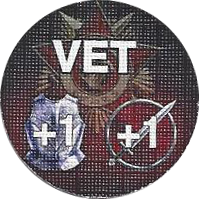
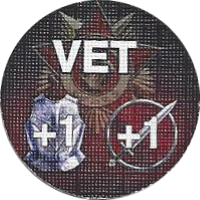
#117- Added Melee +1 Marker
- all FvW markers resized to 200x200
- lint and nits cleaned up in the FvW set.xml

diff --git a/GameDatabase/9acef3d0-efa8-4d3f-a10c-54812baecdda/Documents/MW-KeyMap.html b/GameDatabase/9acef3d0-efa8-4d3f-a10c-54812baecdda/Documents/MW-KeyMap.html
@@ -45,10 +45,11 @@
 			<tr><td>Add Burn Marker="Ctrl+B"</td><td>Remove Burn Marker="Ctrl+Shift+B"</td></tr>
 			<tr><td>Add Bleed Marker="Alt+B"</td><td>Remove Bleed Marker="Ctrl+Alt+B"</td></tr>
 			<tr><td>Add Corrode Marker="Ctrl+C"</td><td>Remove Corrode Marker="Ctrl+Shift+C"</td></tr>
-			<tr><td>Add Cripple Marker="Ctrl+C"</td><td>Remove Cripple Marker="Ctrl+Alt+C"</td></tr>
+			<tr><td>Add Cripple Marker="Alt+C"</td><td>Remove Cripple Marker="Ctrl+Alt+C"</td></tr>
 			<tr><td>Add Daze Marker="Ctrl+D"</td><td>Remove Daze Marker="Ctrl+Shift+D"</td></tr>
 			<tr><td>Add Disable Marker="Alt+D"</td><td>Remove Disable Marker="Ctrl+Alt+D"</td></tr>
 			<tr><td>Add Growth Marker="Alt+G"</td><td>Remove Growth Marker="Ctrl+Alt+G"</td></tr>
+			<tr><td>Add Melee +1 Marker="Alt+M"</td><td>Remove Melee +1 Marker="Ctrl+Alt+M"</td></tr>
 			<tr><td>Add Stuck Marker="Ctrl+K"</td><td>Remove Stuck Marker="Ctrl+Shift+K"</td></tr>
 			<tr><td>Add Rot Marker="Alt+R"</td><td>Remove Rot Marker="Ctrl+Alt+R"</td></tr>
 			<tr><td>Add Slam Marker="Ctrl+S"</td><td>Remove Slam Marker="Ctrl+Shift+S"</td></tr>

diff --git a/GameDatabase/9acef3d0-efa8-4d3f-a10c-54812baecdda/scripts/changelog.py b/GameDatabase/9acef3d0-efa8-4d3f-a10c-54812baecdda/scripts/changelog.py
@@ -1,29 +1,38 @@
 changelog = {
-    1090000: ("1.9.0.0", "01 August 2014", [
-        " Game Documents | Playing Mage Wars on OCTGN",
-        " Game Documents | OCTGN Apprentice Mode",
-        " Game Documents | Keyboard Shortcut Mappings",
-        " Game Documents | Mage Wars Complete Codex",
-        " Game Documents | Mage Wars Condition Markers",
-        " Game Documents | Spellbook Builder Install Help",
-        " Game Documents | ChangeLog",
-        ]),
-    1080000: ("1.8.0.0", "20 July 2014", [
-        " Game Documents | Playing Mage Wars on OCTGN",
-        " Game Documents | OCTGN Apprentice Mode",
-        " Game Documents | Keyboard Shortcut Mappings",
-        " Game Documents | Mage Wars Complete Codex",
-        " Game Documents | Mage Wars Condition Markers",
-        " Game Documents | Spellbook Builder Install Help",
-        " Game Documents | ChangeLog",
-        ]),
-    1070000: ("1.7.0.0", "01 June 2014", [
-        " Game Documents | Playing Mage Wars on OCTGN",
-        " Game Documents | OCTGN Apprentice Mode",
-        " Game Documents | Keyboard Shortcut Mappings",
-        " Game Documents | Mage Wars Complete Codex",
-        " Game Documents | Mage Wars Condition Markers",
-        " Game Documents | Spellbook Builder Install Help",
-        " Game Documents | ChangeLog",
-        ])
+		1100000: ("1.10.0.0", "03 September 2014", [
+			" Game Documents | Playing Mage Wars on OCTGN",
+			" Game Documents | OCTGN Apprentice Mode",
+			" Game Documents | Keyboard Shortcut Mappings",
+			" Game Documents | Mage Wars Complete Codex",
+			" Game Documents | Mage Wars Condition Markers",
+			" Game Documents | Spellbook Builder Install Help",
+			" Game Documents | ChangeLog",
+			]),
+		1090000: ("1.9.0.0", "01 August 2014", [
+			" Game Documents | Playing Mage Wars on OCTGN",
+			" Game Documents | OCTGN Apprentice Mode",
+			" Game Documents | Keyboard Shortcut Mappings",
+			" Game Documents | Mage Wars Complete Codex",
+			" Game Documents | Mage Wars Condition Markers",
+			" Game Documents | Spellbook Builder Install Help",
+			" Game Documents | ChangeLog",
+			]),
+		1080000: ("1.8.0.0", "20 July 2014", [
+			" Game Documents | Playing Mage Wars on OCTGN",
+			" Game Documents | OCTGN Apprentice Mode",
+			" Game Documents | Keyboard Shortcut Mappings",
+			" Game Documents | Mage Wars Complete Codex",
+			" Game Documents | Mage Wars Condition Markers",
+			" Game Documents | Spellbook Builder Install Help",
+			" Game Documents | ChangeLog",
+			]),
+		1070000: ("1.7.0.0", "01 June 2014", [
+			" Game Documents | Playing Mage Wars on OCTGN",
+			" Game Documents | OCTGN Apprentice Mode",
+			" Game Documents | Keyboard Shortcut Mappings",
+			" Game Documents | Mage Wars Complete Codex",
+			" Game Documents | Mage Wars Condition Markers",
+			" Game Documents | Spellbook Builder Install Help",
+			" Game Documents | ChangeLog",
+			])
 }

diff --git a/GameDatabase/9acef3d0-efa8-4d3f-a10c-54812baecdda/scripts/actions.py b/GameDatabase/9acef3d0-efa8-4d3f-a10c-54812baecdda/scripts/actions.py
@@ -40,6 +40,7 @@ HolyAvenger = ("Holy Avenger", "99381ac8-7d73-4d75-9787-60e6411d3613" )
 Ichthellid = ("Ichthellid Larva", "c8bff05e-e43a-4b23-b467-9c4596050f28" )
 Invisible = ("Invisible", "8d994fe9-2422-4a9d-963d-3ad10b2b823d" )
 Mana = ("Mana", "00000000-0000-0000-0000-000000000002" )
+Melee = ("Melee +1", "e96b3791-fbcf-40a2-9c11-106342703db9" )
 MistToken = ("Mist Token","fcc2ffeb-6ae6-45c8-930e-8f3521d326eb" )
 LoadToken = ("Load Token","d32267be-f4c5-48c6-8396-83c0db406942" )
 Pet = ("Pet", "f4a2d3d3-4a95-4b9a-b899-81ea58293167" )
@@ -1002,9 +1003,9 @@ def addGrowth(card, x = 0, y = 0):
 def addMana(card, x = 0, y = 0):
 	addToken(card, Mana)
 
-def addEnergy(card, x = 0, y = 0):
-	addToken(card, Energy)
-
+def addMelee(card, x = 0, y = 0):
+	addToken(card, Meleer)
+	
 def addRot(card, x = 0, y = 0):
 	addToken(card, Rot)
 
@@ -1230,6 +1231,9 @@ def subGrowth(card, x = 0, y = 0):
 
 def subMana(card, x = 0, y = 0):
 	subToken(card, Mana)
+
+def subMelee(card, x = 0, y = 0):
+	subToken(card, Melee)
 
 def subRot(card, x = 0, y = 0):
 	subToken(card, Rot)
